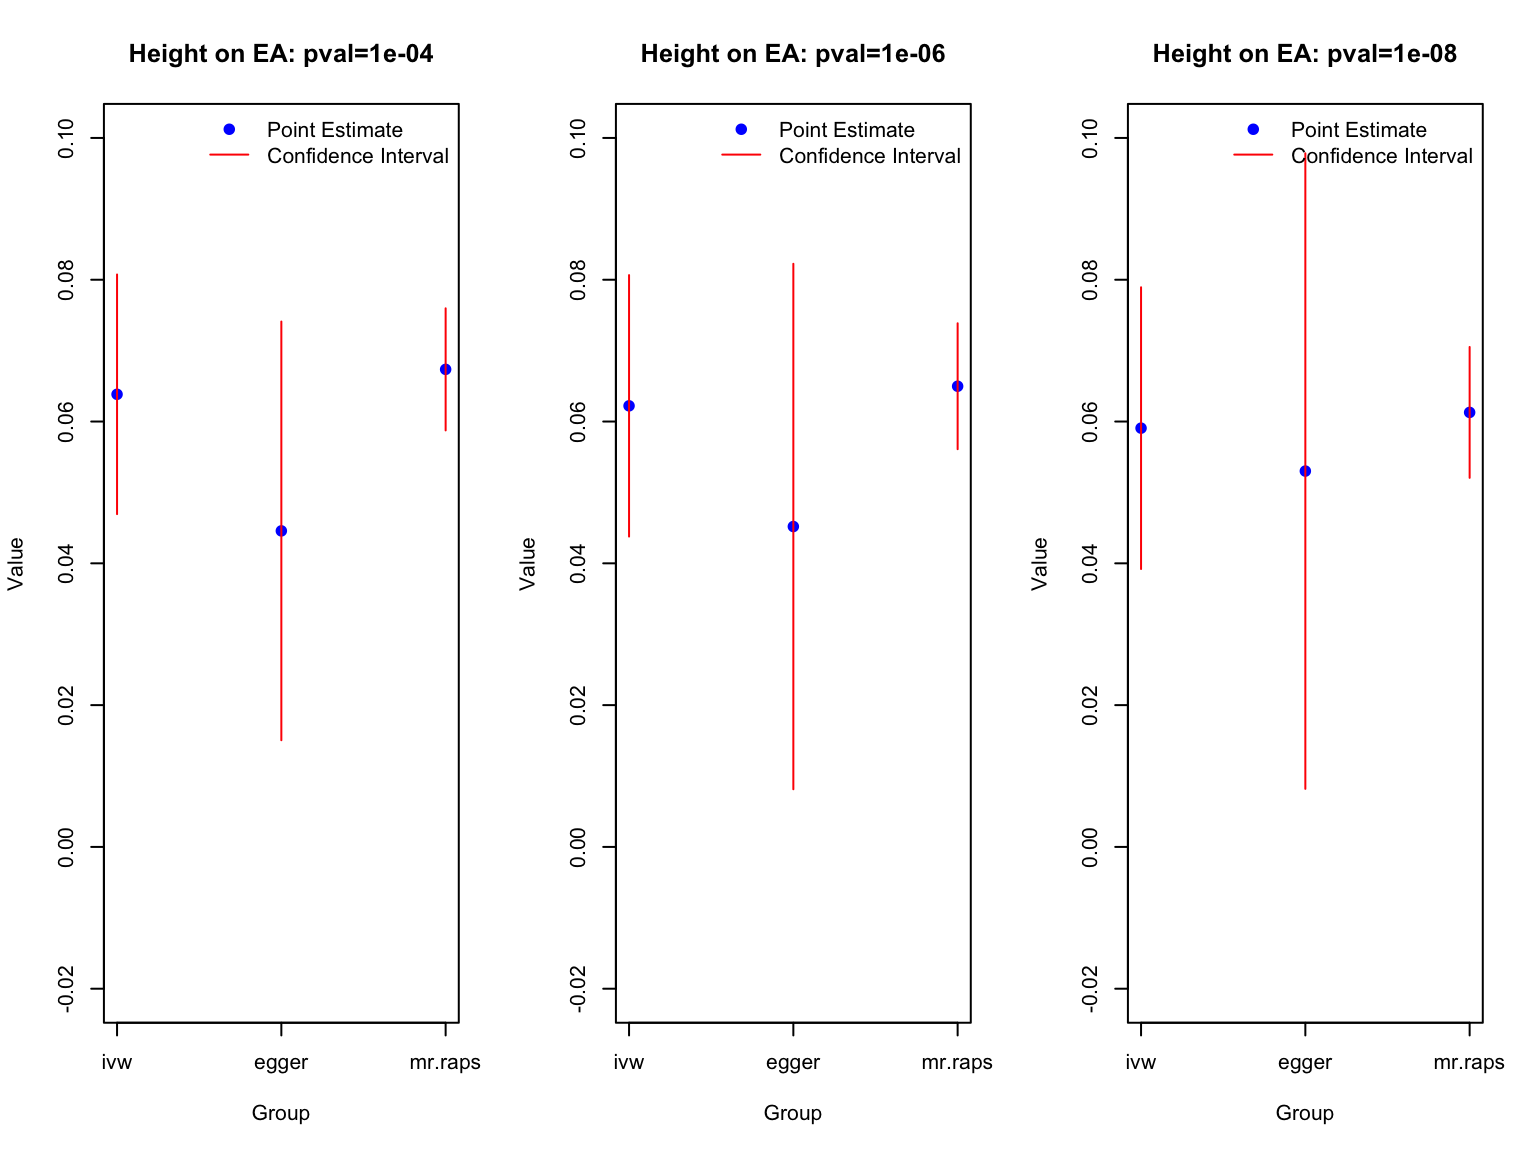
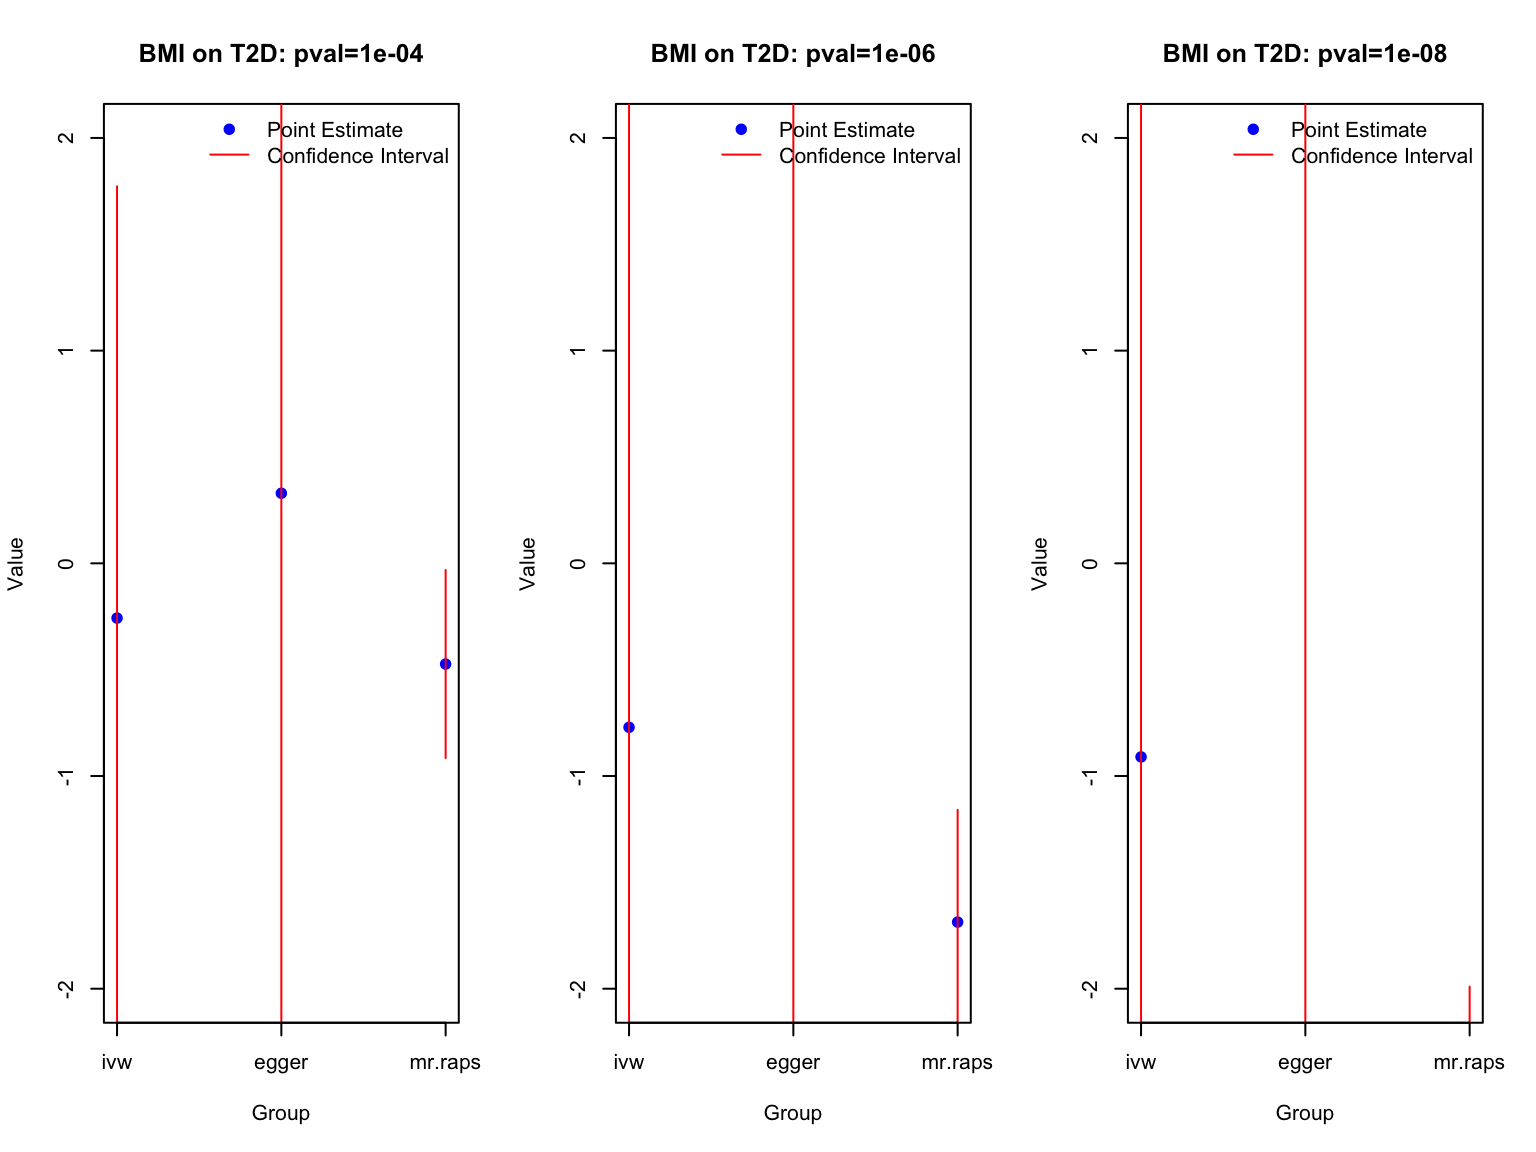
Build site.

diff --git a/docs/real_data_analysis.html b/docs/real_data_analysis.html
@@ -384,7 +384,7 @@ div.tocify {
 <div class="tab-content">
 <div id="summary" class="tab-pane fade in active">
 <p>
-<strong>Last updated:</strong> 2023-11-01
+<strong>Last updated:</strong> 2024-04-02
 </p>
 <p>
 <strong>Checks:</strong> <span class="glyphicon glyphicon-ok text-success" aria-hidden="true"></span> 7 <span class="glyphicon glyphicon-exclamation-sign text-danger" aria-hidden="true"></span> 0
@@ -475,16 +475,16 @@ This reproducible <a href="http://rmarkdown.rstudio.com">R Markdown</a> analysis
 <div class="panel panel-default">
 <div class="panel-heading">
 <p class="panel-title">
-<a data-toggle="collapse" data-parent="#workflowr-checks" href="#strongRepositoryversionstrongahrefhttpsgithubcomyunqiyang0215simulationcalibratedmrtree6a896f4b704975f95e0eb1eb44a999bc14cc58ddtargetblank6a896f4a"> <span class="glyphicon glyphicon-ok text-success" aria-hidden="true"></span> <strong>Repository version:</strong> <a href="https://github.com/yunqiyang0215/simulation-calibrated-mr/tree/6a896f4b704975f95e0eb1eb44a999bc14cc58dd" target="_blank">6a896f4</a> </a>
+<a data-toggle="collapse" data-parent="#workflowr-checks" href="#strongRepositoryversionstrongahrefhttpsgithubcomyunqiyang0215simulationcalibratedmrtreec5ecf63d5d9d99261c6ac65a23fe4c57ada3479atargetblankc5ecf63a"> <span class="glyphicon glyphicon-ok text-success" aria-hidden="true"></span> <strong>Repository version:</strong> <a href="https://github.com/yunqiyang0215/simulation-calibrated-mr/tree/c5ecf63d5d9d99261c6ac65a23fe4c57ada3479a" target="_blank">c5ecf63</a> </a>
 </p>
 </div>
[2 lines of base64/hex data omitted]
 <div class="panel-body">
 <p>
 Great! You are using Git for version control. Tracking code development and connecting the code version to the results is critical for reproducibility.
 </p>
 <p>
-The results in this page were generated with repository version <a href="https://github.com/yunqiyang0215/simulation-calibrated-mr/tree/6a896f4b704975f95e0eb1eb44a999bc14cc58dd" target="_blank">6a896f4</a>. See the <em>Past versions</em> tab to see a history of the changes made to the R Markdown and HTML files.
+The results in this page were generated with repository version <a href="https://github.com/yunqiyang0215/simulation-calibrated-mr/tree/c5ecf63d5d9d99261c6ac65a23fe4c57ada3479a" target="_blank">c5ecf63</a>. See the <em>Past versions</em> tab to see a history of the changes made to the R Markdown and HTML files.
 </p>
 <p>
 Note that you need to be careful to ensure that all relevant files for the analysis have been committed to Git prior to generating the results (you can use <code>wflow_publish</code> or <code>wflow_git_commit</code>). workflowr only checks the R Markdown file, but you know if there are other scripts or data files that it depends on. Below is the status of the Git repository when the results were generated:
@@ -496,16 +496,6 @@ Ignored files:
     Ignored:    .Rproj.user/
     Ignored:    analysis/.DS_Store
     Ignored:    data/.DS_Store
-
-Untracked files:
-    Untracked:  code/.ipynb_checkpoints/
-    Untracked:  code/basic_calculator.ipynb
-
-Unstaged changes:
-    Modified:   analysis/empirical_var_reduction.Rmd
-    Modified:   analysis/mr_real_dat.Rmd
-    Modified:   analysis/sim_real_dat.Rmd
-    Modified:   code/find_families.ipynb
 
 </code></pre>
 <p>
@@ -544,6 +534,40 @@ Message
 </tr>
 </thead>
 <tbody>
+<tr>
+<td>
+Rmd
+</td>
+<td>
+<a href="https://github.com/yunqiyang0215/simulation-calibrated-mr/blob/c5ecf63d5d9d99261c6ac65a23fe4c57ada3479a/analysis/real_data_analysis.Rmd" target="_blank">c5ecf63</a>
+</td>
+<td>
+yunqiyang0215
+</td>
+<td>
+2024-04-02
+</td>
+<td>
+wflow_publish("analysis/real_data_analysis.Rmd")
+</td>
+</tr>
+<tr>
+<td>
+html
+</td>
+<td>
+<a href="https://rawcdn.githack.com/yunqiyang0215/simulation-calibrated-mr/40eb5c311dfa0c4d576a20f3b4d3c30f772296c1/docs/real_data_analysis.html" target="_blank">40eb5c3</a>
+</td>
+<td>
+yunqiyang0215
+</td>
+<td>
+2023-11-01
+</td>
+<td>
+Build site.
+</td>
+</tr>
 <tr>
 <td>
 Rmd
@@ -726,19 +750,20 @@ library(GRAPPLE)
 library(MendelianRandomization)</code></pre>
 <div id="bmi-on-education-attainment" class="section level3">
 <h3>1. BMI on education attainment</h3>
-<pre class="r"><code>sel.file &lt;- &quot;/Users/nicholeyang/Downloads/calibrated_estimator/simulation/real_data/BMI-ukb.csv&quot;
-exp.file &lt;- &quot;/Users/nicholeyang/Downloads/calibrated_estimator/simulation/real_data/BMI-giant17eu.csv&quot;
+<pre class="r"><code>sel.file &lt;- &quot;/Users/nicholeyang/Downloads/calibrated_estimator/simulation/real_data/BMI-giant17eu.csv&quot;
+exp.file &lt;- &quot;/Users/nicholeyang/Downloads/calibrated_estimator/simulation/real_data/BMI-ukb.csv&quot;
 out.file &lt;- &quot;/Users/nicholeyang/Downloads/calibrated_estimator/simulation/real_data/GWAS_EA_excl23andMe.txt&quot;
-plink_refdat &lt;- &quot;/Users/nicholeyang/Downloads/calibrated_estimator/simulation/real_data/data_maf0.01_rs_ref&quot;
+plink_refdat &lt;- &quot;/Users/nicholeyang/Downloads/calibrated_estimator/simulation/real_data/data_maf0.01_rs_ref/data_maf0.01_rs_ref&quot;
 
-data.list &lt;- getInput(sel.file, exp.file, out.file, plink_refdat, max.p.thres = 0.01, 
+data.list &lt;- getInput(sel.file, exp.file, out.file, plink_refdat, max.p.thres = 0.1, 
                       plink_exe = &#39;/Users/nicholeyang/Downloads/calibrated_estimator/simulation/real_data/plink_mac_20230116/plink&#39;)</code></pre>
-<pre><code>[1] &quot;loading data for selection: /Users/nicholeyang/Downloads/calibrated_estimator/simulation/real_data/BMI-ukb.csv ...&quot;
-[1] &quot;loading data from exposure: /Users/nicholeyang/Downloads/calibrated_estimator/simulation/real_data/BMI-giant17eu.csv ...&quot;
+<pre><code>[1] &quot;loading data for selection: /Users/nicholeyang/Downloads/calibrated_estimator/simulation/real_data/BMI-giant17eu.csv ...&quot;
+[1] &quot;loading data from exposure: /Users/nicholeyang/Downloads/calibrated_estimator/simulation/real_data/BMI-ukb.csv ...&quot;
 [1] &quot;loading data from outcome: /Users/nicholeyang/Downloads/calibrated_estimator/simulation/real_data/GWAS_EA_excl23andMe.txt ...&quot;
 [1] &quot;Start clumping using PLINK ...&quot;</code></pre>
 <pre><code>Loading required package: data.table</code></pre>
-<pre><code>[1] &quot;117 independent genetic instruments extracted. Done!&quot;</code></pre>
+<pre><code>[1] &quot;127 independent genetic instruments extracted. Done!&quot;</code></pre>
+<pre class="r"><code>write.table(data.list$data, &quot;/Users/nicholeyang/Downloads/calibrated_estimator/simulation/dat_ukb/bmi_ea.txt&quot;)</code></pre>
 <pre class="r"><code>par(mfrow = c(1,3))
 pval_threshold = c(1e-4, 1e-6, 1e-8)
 for (i in 1:length(pval_threshold)){
@@ -778,70 +803,23 @@ for (i in 1:length(pval_threshold)){
            pch = c(19, NA), col = c(&quot;blue&quot;, &quot;red&quot;), lty = c(NA, 1), bty = &quot;n&quot;)
 
 }</code></pre>
-<p><img src="figure/real_data_analysis.Rmd/unnamed-chunk-3-1.png" width="768" style="display: block; margin: auto;" /></p>
-<p>
-<button type="button" class="btn btn-default btn-xs btn-workflowr btn-workflowr-fig" data-toggle="collapse" data-target="#fig-unnamed-chunk-3-1">
-Past versions of unnamed-chunk-3-1.png
-</button>
-</p>
-<div id="fig-unnamed-chunk-3-1" class="collapse">
-<div class="table-responsive">
-<table class="table table-condensed table-hover">
-<thead>
-<tr>
-<th>
-Version
-</th>
-<th>
-Author
-</th>
-<th>
-Date
-</th>
-</tr>
-</thead>
-<tbody>
-<tr>
-<td>
-<a href="https://github.com/yunqiyang0215/simulation-calibrated-mr/blob/24977f27300b46fbdc5da4cb082af1de1a32f52c/docs/figure/real_data_analysis.Rmd/unnamed-chunk-3-1.png" target="_blank">24977f2</a>
-</td>
-<td>
-yunqiyang0215
-</td>
-<td>
-2023-09-14
-</td>
-</tr>
-<tr>
-<td>
-<a href="https://github.com/yunqiyang0215/simulation-calibrated-mr/blob/8677c25cf3df336a054d9e6bd81535e5bea09bdb/docs/figure/real_data_analysis.Rmd/unnamed-chunk-3-1.png" target="_blank">8677c25</a>
-</td>
-<td>
-yunqiyang0215
-</td>
-<td>
-2023-09-13
-</td>
-</tr>
-</tbody>
-</table>
-</div>
-</div>
+<p><img src="figure/real_data_analysis.Rmd/unnamed-chunk-4-1.png" width="768" style="display: block; margin: auto;" /></p>
 </div>
 <div id="bmi-on-t2d" class="section level3">
 <h3>2. BMI on T2D</h3>
-<pre class="r"><code>sel.file &lt;- &quot;/Users/nicholeyang/Downloads/calibrated_estimator/simulation/real_data/BMI-ukb.csv&quot;
-exp.file &lt;- &quot;/Users/nicholeyang/Downloads/calibrated_estimator/simulation/real_data/BMI-giant17eu.csv&quot;
+<pre class="r"><code>sel.file &lt;- &quot;/Users/nicholeyang/Downloads/calibrated_estimator/simulation/real_data/BMI-giant17eu.csv&quot;
+exp.file &lt;- &quot;/Users/nicholeyang/Downloads/calibrated_estimator/simulation/real_data/BMI-ukb.csv&quot;
 out.file &lt;- &quot;/Users/nicholeyang/Downloads/calibrated_estimator/simulation/real_data/T2D-diagram12-Im.csv&quot;
-plink_refdat &lt;- &quot;/Users/nicholeyang/Downloads/calibrated_estimator/simulation/real_data/data_maf0.01_rs_ref&quot;
+plink_refdat &lt;- &quot;/Users/nicholeyang/Downloads/calibrated_estimator/simulation/real_data/data_maf0.01_rs_ref/data_maf0.01_rs_ref&quot;
 
 data.list &lt;- getInput(sel.file, exp.file, out.file, plink_refdat, max.p.thres = 0.01, 
                       plink_exe = &#39;/Users/nicholeyang/Downloads/calibrated_estimator/simulation/real_data/plink_mac_20230116/plink&#39;)</code></pre>
-<pre><code>[1] &quot;loading data for selection: /Users/nicholeyang/Downloads/calibrated_estimator/simulation/real_data/BMI-ukb.csv ...&quot;
-[1] &quot;loading data from exposure: /Users/nicholeyang/Downloads/calibrated_estimator/simulation/real_data/BMI-giant17eu.csv ...&quot;
+<pre><code>[1] &quot;loading data for selection: /Users/nicholeyang/Downloads/calibrated_estimator/simulation/real_data/BMI-giant17eu.csv ...&quot;
+[1] &quot;loading data from exposure: /Users/nicholeyang/Downloads/calibrated_estimator/simulation/real_data/BMI-ukb.csv ...&quot;
 [1] &quot;loading data from outcome: /Users/nicholeyang/Downloads/calibrated_estimator/simulation/real_data/T2D-diagram12-Im.csv ...&quot;
 [1] &quot;Start clumping using PLINK ...&quot;
-[1] &quot;116 independent genetic instruments extracted. Done!&quot;</code></pre>
+[1] &quot;79 independent genetic instruments extracted. Done!&quot;</code></pre>
+<pre class="r"><code>write.table(data.list$data, &quot;/Users/nicholeyang/Downloads/calibrated_estimator/simulation/dat_ukb/bmi_t2d.txt&quot;)</code></pre>
 <pre class="r"><code>par(mfrow = c(1,3))
 pval_threshold = c(1e-4, 1e-6, 1e-8)
 for (i in 1:length(pval_threshold)){
@@ -881,13 +859,13 @@ for (i in 1:length(pval_threshold)){
            pch = c(19, NA), col = c(&quot;blue&quot;, &quot;red&quot;), lty = c(NA, 1), bty = &quot;n&quot;)
 
 }</code></pre>
-<p><img src="figure/real_data_analysis.Rmd/unnamed-chunk-5-1.png" width="768" style="display: block; margin: auto;" /></p>
+<p><img src="figure/real_data_analysis.Rmd/unnamed-chunk-7-1.png" width="768" style="display: block; margin: auto;" /></p>
 <p>
-<button type="button" class="btn btn-default btn-xs btn-workflowr btn-workflowr-fig" data-toggle="collapse" data-target="#fig-unnamed-chunk-5-1">
-Past versions of unnamed-chunk-5-1.png
+<button type="button" class="btn btn-default btn-xs btn-workflowr btn-workflowr-fig" data-toggle="collapse" data-target="#fig-unnamed-chunk-7-1">
+Past versions of unnamed-chunk-7-1.png
 </button>
 </p>
-<div id="fig-unnamed-chunk-5-1" class="collapse">
+<div id="fig-unnamed-chunk-7-1" class="collapse">
 <div class="table-responsive">
 <table class="table table-condensed table-hover">
 <thead>
@@ -906,7 +884,18 @@ Date
 <tbody>
 <tr>
 <td>
-<a href="https://github.com/yunqiyang0215/simulation-calibrated-mr/blob/24977f27300b46fbdc5da4cb082af1de1a32f52c/docs/figure/real_data_analysis.Rmd/unnamed-chunk-5-1.png" target="_blank">24977f2</a>
+<a href="https://github.com/yunqiyang0215/simulation-calibrated-mr/blob/40eb5c311dfa0c4d576a20f3b4d3c30f772296c1/docs/figure/real_data_analysis.Rmd/unnamed-chunk-7-1.png" target="_blank">40eb5c3</a>
+</td>
+<td>
+yunqiyang0215
+</td>
+<td>
+2023-11-01
+</td>
+</tr>
+<tr>
+<td>
+<a href="https://github.com/yunqiyang0215/simulation-calibrated-mr/blob/24977f27300b46fbdc5da4cb082af1de1a32f52c/docs/figure/real_data_analysis.Rmd/unnamed-chunk-7-1.png" target="_blank">24977f2</a>
 </td>
 <td>
 yunqiyang0215
@@ -917,7 +906,18 @@ yunqiyang0215
 </tr>
 <tr>
 <td>
-<a href="https://github.com/yunqiyang0215/simulation-calibrated-mr/blob/8677c25cf3df336a054d9e6bd81535e5bea09bdb/docs/figure/real_data_analysis.Rmd/unnamed-chunk-5-1.png" target="_blank">8677c25</a>
+<a href="https://github.com/yunqiyang0215/simulation-calibrated-mr/blob/8677c25cf3df336a054d9e6bd81535e5bea09bdb/docs/figure/real_data_analysis.Rmd/unnamed-chunk-7-1.png" target="_blank">8677c25</a>
+</td>
+<td>
+yunqiyang0215
+</td>
+<td>
+2023-09-13
+</td>
+</tr>
+<tr>
+<td>
+<a href="https://github.com/yunqiyang0215/simulation-calibrated-mr/blob/0fb732fa612d6e66e74b7832a20d3cb4da6bdd09/docs/figure/real_data_analysis.Rmd/unnamed-chunk-7-1.png" target="_blank">0fb732f</a>
 </td>
 <td>
 yunqiyang0215
@@ -930,13 +930,14 @@ yunqiyang0215
 </table>
 </div>
 </div>
+<pre class="r"><code>write.table(data.list$data, &quot;/Users/nicholeyang/Downloads/calibrated_estimator/simulation/dat_ukb/height_ea.txt&quot;)</code></pre>
 </div>
 <div id="height-on-ea" class="section level3">
 <h3>3. height on EA</h3>
 <pre class="r"><code>sel.file &lt;- &quot;/Users/nicholeyang/Downloads/calibrated_estimator/simulation/real_data/Height-giant14.csv&quot;
 exp.file &lt;- &quot;/Users/nicholeyang/Downloads/calibrated_estimator/simulation/real_data/height-ukb.csv&quot;
 out.file &lt;- &quot;/Users/nicholeyang/Downloads/calibrated_estimator/simulation/real_data/GWAS_EA_excl23andMe.txt&quot;
-plink_refdat &lt;- &quot;/Users/nicholeyang/Downloads/calibrated_estimator/simulation/real_data/data_maf0.01_rs_ref&quot;
+plink_refdat &lt;- &quot;/Users/nicholeyang/Downloads/calibrated_estimator/simulation/real_data/data_maf0.01_rs_ref/data_maf0.01_rs_ref&quot;
 
 data.list &lt;- getInput(sel.file, exp.file, out.file, plink_refdat, max.p.thres = 0.01, 
                       plink_exe = &#39;/Users/nicholeyang/Downloads/calibrated_estimator/simulation/real_data/plink_mac_20230116/plink&#39;)</code></pre>
@@ -984,66 +985,7 @@ for (i in 1:length(pval_threshold)){
            pch = c(19, NA), col = c(&quot;blue&quot;, &quot;red&quot;), lty = c(NA, 1), bty = &quot;n&quot;)
 
 }</code></pre>
-<p><img src="figure/real_data_analysis.Rmd/unnamed-chunk-7-1.png" width="768" style="display: block; margin: auto;" /></p>
-<p>
-<button type="button" class="btn btn-default btn-xs btn-workflowr btn-workflowr-fig" data-toggle="collapse" data-target="#fig-unnamed-chunk-7-1">
-Past versions of unnamed-chunk-7-1.png
-</button>
-</p>
-<div id="fig-unnamed-chunk-7-1" class="collapse">
-<div class="table-responsive">
-<table class="table table-condensed table-hover">
-<thead>
-<tr>
-<th>
-Version
-</th>
-<th>
-Author
-</th>
-<th>
-Date
-</th>
-</tr>
-</thead>
-<tbody>
-<tr>
-<td>
-<a href="https://github.com/yunqiyang0215/simulation-calibrated-mr/blob/24977f27300b46fbdc5da4cb082af1de1a32f52c/docs/figure/real_data_analysis.Rmd/unnamed-chunk-7-1.png" target="_blank">24977f2</a>
-</td>
-<td>
-yunqiyang0215
-</td>
-<td>
-2023-09-14
-</td>
-</tr>
-<tr>
-<td>
-<a href="https://github.com/yunqiyang0215/simulation-calibrated-mr/blob/8677c25cf3df336a054d9e6bd81535e5bea09bdb/docs/figure/real_data_analysis.Rmd/unnamed-chunk-7-1.png" target="_blank">8677c25</a>
-</td>
-<td>
-yunqiyang0215
-</td>
-<td>
-2023-09-13
-</td>
-</tr>
-<tr>
-<td>
-<a href="https://github.com/yunqiyang0215/simulation-calibrated-mr/blob/0fb732fa612d6e66e74b7832a20d3cb4da6bdd09/docs/figure/real_data_analysis.Rmd/unnamed-chunk-7-1.png" target="_blank">0fb732f</a>
-</td>
-<td>
-yunqiyang0215
-</td>
-<td>
-2023-09-13
-</td>
-</tr>
-</tbody>
-</table>
-</div>
-</div>
+<p><img src="figure/real_data_analysis.Rmd/unnamed-chunk-11-1.png" width="768" style="display: block; margin: auto;" /></p>
 <br>
 <p>
 <button type="button" class="btn btn-default btn-workflowr btn-workflowr-sessioninfo" data-toggle="collapse" data-target="#workflowr-sessioninfo" style="display: block;">
@@ -1075,7 +1017,7 @@ loaded via a namespace (and not attached):
  [1] httr_1.4.6         sass_0.4.4         tidyr_1.2.1        foreach_1.5.2     
  [5] jsonlite_1.7.2     viridisLite_0.4.0  splines_4.1.1      haploR_4.0.5      
  [9] bslib_0.4.1        highr_0.9          arrangements_1.1.9 yaml_2.2.1        
-[13] robustbase_0.95-1  ggrepel_0.9.3      pillar_1.6.4       lattice_0.20-44   
+[13] robustbase_0.95-1  ggrepel_0.9.3      pillar_1.9.0       lattice_0.20-44   
 [17] quantreg_5.94      glue_1.4.2         RUnit_0.4.32       digest_0.6.28     
 [21] promises_1.2.0.1   iterpc_0.4.2       colorspace_2.0-2   htmltools_0.5.5   
 [25] httpuv_1.6.3       Matrix_1.5-3       plyr_1.8.6         XML_3.99-0.14     
@@ -1084,17 +1026,17 @@ loaded via a namespace (and not attached):
 [37] rootSolve_1.8.2.3  MatrixModels_0.5-1 git2r_0.28.0       tibble_3.1.5      
 [41] gmp_0.7-1          generics_0.1.2     ggplot2_3.4.3      ellipsis_0.3.2    
 [45] DT_0.27            cachem_1.0.6       lazyeval_0.2.2     cli_3.6.1         
-[49] survival_3.2-11    RJSONIO_1.3-1.8    magrittr_2.0.1     crayon_1.4.1      
-[53] evaluate_0.14      fs_1.5.0           fansi_0.5.0        MASS_7.3-54       
-[57] tools_4.1.1        lifecycle_1.0.3    stringr_1.4.0      plotly_4.10.1     
-[61] glmnet_4.1-4       munsell_0.5.0      compiler_4.1.1     jquerylib_0.1.4   
-[65] rlang_1.1.1        grid_4.1.1         RCurl_1.98-1.12    iterators_1.0.14  
-[69] rstudioapi_0.13    rjson_0.2.21       htmlwidgets_1.6.2  bitops_1.0-7      
-[73] rmarkdown_2.11     codetools_0.2-18   gtable_0.3.0       curl_4.3.2        
-[77] R6_2.5.1           gridExtra_2.3      knitr_1.36         dplyr_1.0.7       
-[81] fastmap_1.1.0      utf8_1.2.2         nortest_1.0-4      rprojroot_2.0.2   
-[85] shape_1.4.6        stringi_1.7.5      crul_1.4.0         Rcpp_1.0.8.3      
-[89] vctrs_0.6.3        DEoptimR_1.0-13    tidyselect_1.1.1   xfun_0.27         </code></pre>
+[49] survival_3.2-11    RJSONIO_1.3-1.8    magrittr_2.0.1     evaluate_0.14     
+[53] fs_1.5.0           fansi_0.5.0        MASS_7.3-54        tools_4.1.1       
+[57] lifecycle_1.0.3    stringr_1.4.0      plotly_4.10.1      glmnet_4.1-4      
+[61] munsell_0.5.0      compiler_4.1.1     jquerylib_0.1.4    rlang_1.1.1       
+[65] grid_4.1.1         RCurl_1.98-1.12    iterators_1.0.14   rstudioapi_0.13   
+[69] rjson_0.2.21       htmlwidgets_1.6.2  bitops_1.0-7       rmarkdown_2.11    
+[73] codetools_0.2-18   gtable_0.3.0       curl_4.3.2         R6_2.5.1          
+[77] gridExtra_2.3      knitr_1.36         dplyr_1.0.7        fastmap_1.1.0     
+[81] utf8_1.2.2         nortest_1.0-4      rprojroot_2.0.2    shape_1.4.6       
+[85] stringi_1.7.5      crul_1.4.0         Rcpp_1.0.8.3       vctrs_0.6.3       
+[89] DEoptimR_1.0-13    tidyselect_1.2.0   xfun_0.27         </code></pre>
 </div>
 </div>
 

diff --git a/docs/site_libs/navigation-1.1/codefolding.js b/docs/site_libs/navigation-1.1/codefolding.js
@@ -19,8 +19,6 @@ window.initializeCodeFolding = function(show) {
   // select all R code blocks
   var rCodeBlocks = $('pre.r, pre.python, pre.bash, pre.sql, pre.cpp, pre.stan, pre.julia, pre.foldable');
   rCodeBlocks.each(function() {
-    // skip if the block has fold-none class
-    if ($(this).hasClass('fold-none')) return;
 
     // create a collapsable div to wrap the code in
     var div = $('<div class="collapse r-code-collapse"></div>');
@@ -36,9 +34,7 @@ window.initializeCodeFolding = function(show) {
     showCodeButton.append(showCodeText);
     showCodeButton
         .attr('data-toggle', 'collapse')
-        .attr('data-bs-toggle', 'collapse') // BS5
         .attr('data-target', '#' + id)
-        .attr('data-bs-target', '#' + id)   // BS5
         .attr('aria-expanded', showThis)
         .attr('aria-controls', id);
 
